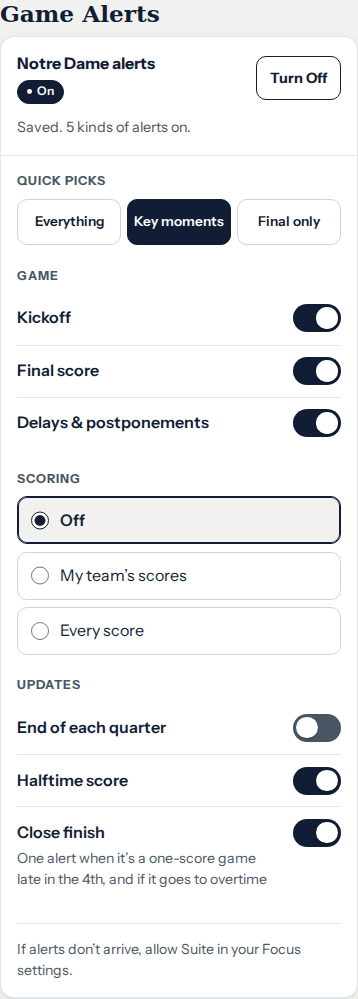
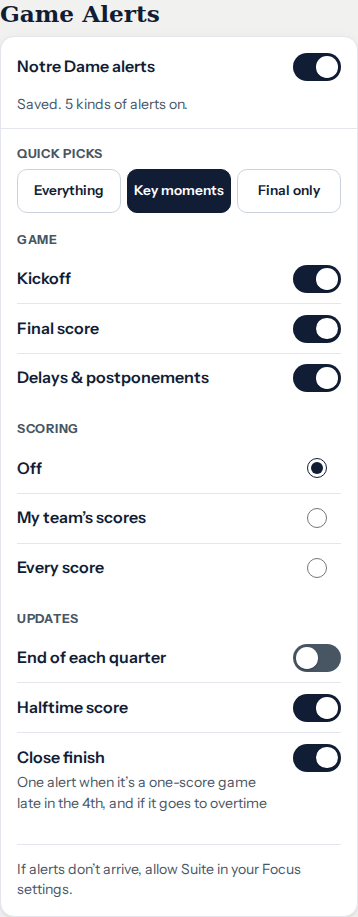
Use a master alert switch and unify Settings control rows

diff --git a/tools/alertscheck.js b/tools/alertscheck.js
@@ -31,7 +31,12 @@ var STUB = "(" + function () {
   }
   try { if (localStorage.getItem("iw-alerts-notre-dame") === "1") sub = mk(); } catch (e) {}   // already on, from before
   window.PushManager = function () {};
-  window.Notification = { permission: "granted", requestPermission: function () { return Promise.resolve("granted"); } };
+  window.alertPermissionCalls = 0;
+  window.Notification = { permission: "granted", requestPermission: function () {
+    window.alertPermissionCalls++;
+    this.permission = window.alertPermissionResult || "granted";
+    return Promise.resolve(this.permission);
+  } };
   var pm = { getSubscription: function () { return Promise.resolve(sub); },
              subscribe: function () { sub = mk(); return Promise.resolve(sub); } };
   var reg = { pushManager: pm, active: {} };
@@ -48,7 +53,7 @@ var STUB = "(" + function () {
   var browser = await chromium.launch({ headless: true, executablePath: process.env.PW_CHROMIUM || undefined });
   async function open(width, before) {
     var ctx = await browser.newContext({ viewport: { width: width || 390, height: 844 }, serviceWorkers: "block" });
-    var page = await ctx.newPage(), posts = [], slow = { ms: 0 };
+    var page = await ctx.newPage(), posts = [], slow = { ms: 0, status: 200 };
     if (before) await page.addInitScript(before);
     await page.addInitScript(STUB);
     await page.route("**/*", function (route) {
@@ -60,10 +65,10 @@ var STUB = "(" + function () {
         var wait = Array.isArray(slow.ms) ? slow.ms.shift() || 0 : slow.ms;
         if (wait && !/unsubscribe/.test(u)) return new Promise(function (r) { setTimeout(r, wait); }).then(function () {
           posts.push({ path: "subscribe", options: body.options || null, at: Date.now() });
-          return route.fulfill({ status: 200, contentType: "application/json", headers: { "access-control-allow-origin": "*" }, body: JSON.stringify({ ok: true, confirmation: "updated" }) });
+          return route.fulfill({ status: slow.status, contentType: "application/json", headers: { "access-control-allow-origin": "*" }, body: JSON.stringify({ ok: true, confirmation: "updated" }) });
         });
         posts.push({ path: /unsubscribe/.test(u) ? "unsubscribe" : "subscribe", options: body.options || null, at: Date.now() });
-        return route.fulfill({ status: 200, contentType: "application/json", headers: { "access-control-allow-origin": "*" },
+        return route.fulfill({ status: slow.status, contentType: "application/json", headers: { "access-control-allow-origin": "*" },
                                body: JSON.stringify(/unsubscribe/.test(u) ? { ok: true } : { ok: true, confirmation: posts.filter(function (p) { return p.path === "subscribe"; }).length === 1 ? "sent" : "updated" }) });
       }
       if (u.startsWith(base)) return route.continue();
@@ -78,7 +83,7 @@ var STUB = "(" + function () {
   function state(page) {
     return page.evaluate(function () {
       var s = document.querySelector("#screenSettings");
-      return { on: (s.querySelector('[data-st="alerts"]') || {}).textContent,
+      return { on: (s.querySelector('[data-alerts]') || {}).checked ? "On" : "Off",
                note: (s.querySelector('[data-st="alerts-note"]') || {}).textContent,
                pressed: [].map.call(s.querySelectorAll('[data-alert-pick][aria-pressed="true"]'), function (b) { return b.getAttribute("data-alert-pick"); }),
                switches: [].map.call(s.querySelectorAll("[data-alert-opt]"), function (i) { return (i.checked ? "+" : "-") + i.getAttribute("data-alert-opt"); }),
@@ -175,6 +180,43 @@ var STUB = "(" + function () {
   ok(!wide, "nothing runs off the screen");
   await shot(n.page, "alerts-320");
   await n.ctx.close();
+
+  console.log("6. Native master switch: keyboard, pending taps and failed changes");
+  var master = await open(320);
+  eq(await master.page.evaluate(function () { return window.alertPermissionCalls; }), 0,
+     "opening Settings never asks for permission");
+  master.slow.ms = 900;
+  var control = master.page.getByRole("switch", { name: "Notre Dame alerts", exact: true });
+  await control.focus(); await control.press("Space");
+  await master.page.waitForTimeout(100);
+  ok(await control.getAttribute("aria-disabled") === "true" && !(await control.isChecked()),
+     "enabling keeps the confirmed off state and explains that it is pending");
+  // A real tap can reach an aria-disabled native input; bypass Playwright's
+  // enabled-state wait so this exercises the pending-state guard itself.
+  await control.click({ force: true });
+  ok(!(await control.isChecked()), "a repeated pending tap restores the confirmed state");
+  await master.page.waitForTimeout(1200);
+  ok(await control.isChecked() && master.posts.length === 1 &&
+     await master.page.evaluate(function () { return window.alertPermissionCalls === 1 && document.activeElement.name === "alert-master"; }),
+     "Space enables once; the switch reports on and keeps keyboard focus");
+  master.slow.status = 503;
+  await control.press("Space"); await master.page.waitForTimeout(400);
+  ok(await control.isChecked() && /Couldn’t turn off/.test((await state(master.page)).note),
+     "a failed unsubscribe stays visibly on and says why");
+  master.slow.status = 200;
+  await control.press("Space"); await master.page.waitForTimeout(400);
+  ok(!(await control.isChecked()) && (await state(master.page)).note === "Game alerts are off.",
+     "retrying by keyboard switches off successfully");
+  await master.ctx.close();
+
+  var denied = await open();
+  await denied.page.evaluate(function () { window.alertPermissionResult = "denied"; });
+  await denied.page.getByRole("switch", { name: "Notre Dame alerts", exact: true }).press("Space");
+  await denied.page.waitForTimeout(400);
+  ok(denied.posts.length === 0 && await denied.page.locator('[data-alerts]').count() === 0 &&
+     /Notifications are off for Suite/.test(await denied.page.locator('#screenSettings').innerText()),
+     "denied permission never subscribes or shows an enabled master switch");
+  await denied.ctx.close();
 
   await browser.close(); server.close();
   console.log("\n" + (failures ? failures + " check(s) FAILED" : "the fan's choice of alerts, sent as chosen"));

diff --git a/app.css b/app.css
@@ -979,40 +979,32 @@ button.mo-row{width:100%;margin:0;border:0;background:none;font:inherit;text-ali
 .st-note{flex:1 1 12rem;font-size:.92rem;color:var(--s-muted)}
 /* Game alerts, round 2 (notifications brief §2b): quick picks, then the
    switches they set. Each row is a label the whole width, 44px at least. */
-/* A compact team/status header; turning alerts on remains an explicit tap. */
-.al-overview{padding:1rem}
-.al-summary{display:flex;flex-wrap:wrap;align-items:center;justify-content:space-between;gap:.75rem}
-.al-heading{display:flex;flex:1 1 8rem;flex-direction:column;align-items:flex-start;gap:.4rem;min-width:0}
-.al-team{font-size:1rem;font-weight:700;line-height:1.3;color:var(--s-ink)}
-.al-status{display:inline-flex;align-items:center;gap:.35rem;padding:.15rem .55rem;border:1px solid var(--s-line-strong);border-radius:var(--s-radius-pill);font-size:.75rem;font-weight:600;line-height:1.4;color:var(--s-ink-2)}
-.al-status.is-on{background:var(--t-surface);border-color:var(--t-surface);color:var(--s-on-dark)}
-.al-status.is-on::before{content:"";width:.3rem;height:.3rem;border-radius:50%;background:currentColor}
-.al-toggle{flex:none;min-height:2.75rem;font-size:.9rem;padding:.55rem .8rem}
-.al-note{margin:.85rem 0 0;font-size:.9rem;line-height:1.5;color:var(--s-muted)}
+/* Alert rows share one type, spacing and control alignment. The master
+   uses the same switch as each option; only quick picks have button chrome. */
+.al-overview{padding:.35rem 1rem .85rem}
+.al-note{margin:.2rem 0 0}
+.al-note,.al-sub,.al-help{font-size:.88rem;line-height:1.45;color:var(--s-muted)}
 .al-opts{padding:1rem;border-top:1px solid var(--s-line)}
-.al-picks-title{margin:0 0 .55rem;font-size:.78rem;font-weight:700;letter-spacing:.08em;text-transform:uppercase;color:var(--s-muted)}
-.al-picks{display:grid;grid-template-columns:repeat(auto-fit,minmax(min(100%,4.7rem),1fr));gap:.35rem}
-.al-pick{min-height:2.9rem;min-width:0;padding:.45rem .35rem;border:1px solid var(--s-line-strong);border-radius:var(--s-radius-ctl);background:var(--s-surface);color:var(--s-ink);font-family:inherit;font-size:.85rem;font-weight:600;line-height:1.25;cursor:pointer}
+.al-set{margin:1.1rem 0 0;padding:0;border:0;min-width:0}
+.al-set:first-child{margin-top:0}
+.al-legend{padding:0;margin-bottom:.35rem;font-family:var(--t-font-ui);font-weight:700;font-size:.78rem;letter-spacing:.06em;text-transform:uppercase;color:var(--s-muted)}
+.al-picks{display:grid;grid-template-columns:repeat(auto-fit,minmax(min(100%,4.7rem),1fr));gap:.4rem}
+.al-pick{min-height:2.75rem;min-width:0;padding:.5rem .25rem;border:1px solid var(--s-line-strong);border-radius:var(--s-radius-ctl);background:var(--s-surface);color:var(--s-ink);font-family:inherit;font-size:.85rem;font-weight:600;line-height:1.3;cursor:pointer}
 .al-pick[aria-pressed="true"]{border-color:var(--t-surface);background:var(--t-surface);color:var(--s-on-dark)}
 .al-pick:focus-visible{outline:3px solid var(--t-surface);outline-offset:2px}
-.al-set{margin:1.35rem 0 0;padding:0;border:0;min-width:0}
-.al-legend{padding:0;margin-bottom:.5rem;font-family:var(--t-font-ui);font-weight:700;font-size:.78rem;letter-spacing:.08em;text-transform:uppercase;color:var(--s-muted)}
-.al-row{display:flex;flex-wrap:wrap;align-items:flex-start;justify-content:space-between;gap:.9rem;min-height:3.25rem;padding:.7rem 0;cursor:pointer}
+.al-row{display:flex;flex-wrap:wrap;align-items:flex-start;justify-content:space-between;gap:.75rem;min-height:2.75rem;padding:.65rem 0;cursor:pointer}
 .al-row + .al-row{border-top:1px solid var(--s-line)}
-.al-text{display:flex;flex:1 1 9rem;flex-direction:column;gap:.3rem;min-width:0;padding:.2rem 0;overflow-wrap:anywhere}
+.al-text{display:flex;flex:1 1 9rem;flex-direction:column;gap:.25rem;min-width:0;padding:.2rem 0;overflow-wrap:anywhere}
 .al-name{font-weight:600;color:var(--s-ink);line-height:1.35}
-.al-sub{font-size:.88rem;line-height:1.45;color:var(--s-muted)}
-.al-switch{flex:none;appearance:none;-webkit-appearance:none;position:relative;width:3rem;height:1.75rem;margin:0;border-radius:999px;background:var(--s-ink-2);cursor:pointer;transition:background-color .15s}
+.al-switch{flex:none;appearance:none;-webkit-appearance:none;position:relative;width:3rem;height:1.75rem;margin:0;border-radius:var(--s-radius-pill);background:var(--s-ink-2);cursor:pointer;transition:background-color .15s}
 .al-switch::after{content:"";position:absolute;top:.2rem;left:.2rem;width:1.35rem;height:1.35rem;border-radius:50%;background:#fff;box-shadow:0 1px 2px rgba(0,0,0,.3);transition:transform .15s}
 .al-switch:checked{background:var(--t-surface)}
 .al-switch:checked::after{transform:translateX(1.25rem)}
+.al-switch[aria-disabled="true"]{cursor:progress}
 .al-switch:focus-visible{outline:3px solid var(--t-surface);outline-offset:2px}
-.al-seg{display:grid;gap:.45rem}
-.al-choice{display:flex;align-items:center;gap:.65rem;min-height:3rem;padding:.65rem .8rem;border:1px solid var(--s-line-strong);border-radius:var(--s-radius-ctl);cursor:pointer;color:var(--s-ink);line-height:1.35}
-.al-choice:has(input:checked){border-color:var(--t-surface);box-shadow:inset 0 0 0 1px var(--t-surface);background:var(--s-page);font-weight:600}
-.al-choice input{flex:none;width:1.15rem;height:1.15rem;margin:0;accent-color:var(--t-surface)}
+.al-choice input{flex:none;width:1.25rem;height:1.25rem;margin:.25rem .875rem;accent-color:var(--t-surface)}
 .al-choice input:focus-visible{outline:3px solid var(--t-surface);outline-offset:2px}
-.al-help{margin:1.25rem 0 0;padding-top:.9rem;border-top:1px solid var(--s-line);font-size:.88rem;line-height:1.5;color:var(--s-muted)}
+.al-help{margin:1.1rem 0 0;padding-top:.85rem;border-top:1px solid var(--s-line)}
 @media (prefers-reduced-motion: reduce){.al-switch,.al-switch::after{transition:none}}
 /* Feedback and About. */
 .fb-card,.ab-card{padding:1.1rem 1.1rem 1.2rem}

diff --git a/suite/more.js b/suite/more.js
@@ -200,8 +200,8 @@ Suite.more = (function () {
   // 2026-10-09): on or off for this team, and once on, the fan's choice of
   // alerts - quick picks that set the switches and step aside, one choice
   // for scoring, a switch for everything else. It says plainly when this
-  // device cannot get them, and why. The Turn On button is the only thing
-  // that ever asks the browser for permission.
+  // device cannot get them, and why. Enabling the master switch is the only
+  // action that asks the browser for permission.
   var PICKS = [["everything", "Everything"], ["key", "Key moments"], ["final", "Final only"]];
   var SWITCHES = {
     game: [["kickoff", "Kickoff"], ["final", "Final score"], ["delays", "Delays & postponements"]],
@@ -217,14 +217,14 @@ Suite.more = (function () {
   }
   function alertOptions(a) {
     var o = a.opts;
-    return '<div class="al-opts"><p class="al-picks-title">Quick picks</p>' +
-      '<div class="al-picks" role="group" aria-label="Quick picks">' + PICKS.map(function (p) {
+    return '<div class="al-opts"><fieldset class="al-set"><legend class="al-legend">Quick picks</legend>' +
+      '<div class="al-picks">' + PICKS.map(function (p) {
         return '<button type="button" class="al-pick" data-alert-pick="' + p[0] + '" aria-pressed="' + (a.pick === p[0]) + '">' + esc(p[1]) + "</button>";
-      }).join("") + "</div>" +
+      }).join("") + "</div></fieldset>" +
       '<fieldset class="al-set"><legend class="al-legend">Game</legend>' + SWITCHES.game.map(function (sw) { return alertSwitch(o, sw); }).join("") + "</fieldset>" +
       '<fieldset class="al-set"><legend class="al-legend">Scoring</legend><div class="al-seg">' + SCORING.map(function (c) {
-        return '<label class="al-choice"><input type="radio" name="alertScoring" value="' + c[0] + '"' + (o.scoring === c[0] ? " checked" : "") +
-               "><span>" + esc(c[1]) + "</span></label>";
+        return '<label class="al-row al-choice"><span class="al-text"><span class="al-name">' + esc(c[1]) + '</span></span>' +
+               '<input type="radio" name="alertScoring" value="' + c[0] + '"' + (o.scoring === c[0] ? " checked" : "") + "></label>";
       }).join("") + "</div></fieldset>" +
       '<fieldset class="al-set"><legend class="al-legend">Updates</legend>' + SWITCHES.updates.map(function (sw) { return alertSwitch(o, sw); }).join("") + "</fieldset>" +
       '<p class="al-help">If alerts don\u2019t arrive, allow Suite in your Focus settings.</p></div>';
@@ -242,9 +242,12 @@ Suite.more = (function () {
     } else {
       var note = a.note || (a.on ? "Choose which " + name + " alerts this device gets."
                                  : "Notifications for " + name + " games: kickoff and the final to start, and scores, quarters and close finishes if you want them.");
-      body = '<div class="al-overview"><div class="al-summary"><div class="al-heading"><span class="al-team">' + esc(name) + ' alerts</span><span class="al-status' + (a.on ? ' is-on' : '') + '" data-st="alerts">' + (a.on ? "On" : "Off") + "</span></div>" +
-        '<button type="button" class="btn btn-secondary al-toggle" data-alerts="' + (a.on ? "off" : "on") + '"' + (a.busy ? ' aria-disabled="true"' : "") + ">" +
-        (a.busy ? (a.on ? "Turning Off\u2026" : "Turning On\u2026") : (a.on ? "Turn Off" : "Turn On")) + '</button></div><p class="al-note" data-st="alerts-note">' + esc(note) + "</p></div>" +
+      if (a.busy) note = a.on ? "Turning alerts off…" : "Turning alerts on…";
+      body = '<div class="al-overview"><label class="al-row"><span class="al-text"><span class="al-name" id="al-master-name">' + esc(name) + ' alerts</span></span>' +
+        '<input type="checkbox" role="switch" class="al-switch" name="alert-master" data-alerts="' + (a.on ? "off" : "on") +
+        '" aria-labelledby="al-master-name" aria-describedby="al-note"' + (a.on ? " checked" : "") +
+        (a.busy ? ' aria-disabled="true" aria-busy="true"' : "") + '></label>' +
+        '<p class="al-note" id="al-note" data-st="alerts-note">' + esc(note) + "</p></div>" +
         (a.on && a.opts ? alertOptions(a) : "");
     }
     return group("alerts", "Game Alerts", body);

diff --git a/tools/suitecheck.js b/tools/suitecheck.js
@@ -124,18 +124,22 @@ function alertsHtml(alerts) {
   return { all: h.innerHTML, sec: sec ? sec[0] : "" };
 }
 var aOff = alertsHtml({ support: "ok", on: false, busy: false, denied: false, note: null });
-ok(/<h2 class="sec-title" id="st-alerts">Game Alerts<\/h2>/.test(aOff.sec) && /data-st="alerts">Off</.test(aOff.sec) &&
-   (aOff.sec.match(/<button type="button"[^>]* data-alerts="on">Turn On<\/button>/g) || []).length === 1,
-   "off: Game Alerts says Off, with one Turn On button");
+var masterOff = /<input[^>]*name="alert-master"[^>]*>/.exec(aOff.sec);
+ok(/<h2 class="sec-title" id="st-alerts">Game Alerts<\/h2>/.test(aOff.sec) && masterOff &&
+   /type="checkbox" role="switch"/.test(masterOff[0]) && !/ checked/.test(masterOff[0]) &&
+   /aria-labelledby="al-master-name" aria-describedby="al-note"/.test(masterOff[0]) &&
+   /id="al-master-name">Ohio State alerts</.test(aOff.sec),
+   "off: one unchecked native master switch, named for the team and described by its note");
 ok(/Notifications for Ohio State games: kickoff and the final to start/.test(aOff.sec) && !/al-opts/.test(aOff.sec),
    "it says what the alerts are, for this team; the choices wait until they are on");
 ok(aOff.all.indexOf('id="st-appearance"') < aOff.all.indexOf('id="st-alerts"') && aOff.all.indexOf('id="st-alerts"') < aOff.all.indexOf('id="st-data"'),
    "between Appearance and Data");
 var aOn = alertsHtml({ support: "ok", on: true, busy: false, denied: false, note: "Game alerts are on. A test alert is on its way." });
-ok(/data-st="alerts">On</.test(aOn.sec) && /data-alerts="off">Turn Off</.test(aOn.sec) && /A test alert is on its way\./.test(aOn.sec),
-   "on: On, Turn Off, and what the last tap did");
-ok(/aria-disabled="true">Turning On…</.test(alertsHtml({ support: "ok", on: false, busy: true, denied: false }).sec),
-   "while it works: Turning On…, still focusable (aria-disabled)");
+ok(/<input[^>]*name="alert-master"[^>]* checked/.test(aOn.sec) && /A test alert is on its way\./.test(aOn.sec),
+   "on: checked master switch and what the last tap did");
+var aBusy = alertsHtml({ support: "ok", on: false, busy: true, denied: false }).sec;
+ok(/aria-disabled="true" aria-busy="true"/.test(aBusy) && /Turning alerts on…/.test(aBusy) && !/ disabled[ >]/.test(aBusy),
+   "while it works: pending state explained, master stays focusable");
 // Round 2 (notifications brief §2b): once on, the choices - quick picks,
 // scoring as one choice, a switch for everything else, and the Focus hint.
 var OPTS = { kickoff: true, final: true, delays: true, scoring: "mine", quarters: false, halftime: true, close: true };

diff --git a/app.js b/app.js
@@ -1867,7 +1867,7 @@ Suite.nav.pull(function(){ return manualRefresh().then(function(r){ say(r.say); 
 
 /* ---------- Game alerts (W19) ---------- */
 // This team's alerts, pushed by the edge API (worker/src/push.js) to this
-// device. Nothing is asked of the browser until the fan taps Turn On in
+// device. Nothing is asked of the browser until the fan enables the master switch in
 // Settings (notifications brief §3). Whether this device turned them on for
 // this team, and its choice of alerts (round 2, §2b), are kept here; the
 // Worker keeps the subscription and a copy of the choice.
@@ -1975,7 +1975,7 @@ function alertsTurnOn(){
     if(r.status!==200) throw { why:"server" };
     alertsDone(r.body.confirmation==="sent" ? "Game alerts are on. A test alert is on its way."
              : r.body.confirmation==="updated" ? "Game alerts are on."
-             : "Game alerts are on, but the test alert didn’t go through. Try Turn Off, then Turn On.", true);
+             : "Game alerts are on, but the test alert didn’t go through. Try switching alerts off, then on.", true);
   }).catch(function(e){
     alertsDone(e && e.why==="denied" ? "Notifications weren’t allowed, so game alerts are off."
                                      : "Couldn’t turn on game alerts. Check your connection and try again.", false);
@@ -1998,10 +1998,13 @@ function alertsTurnOff(why){
     alertsDone("Couldn’t turn off game alerts. Check your connection and try again.", null);
   });
 }
-document.addEventListener("click", function(e){
-  var b=e.target.closest && e.target.closest("[data-alerts]");
-  if(!b || ALERTS.busy || alertSupport()!=="ok") return;
-  if(b.getAttribute("data-alerts")==="on") alertsTurnOn(); else alertsTurnOff();
+document.addEventListener("change", function(e){
+  var b=e.target;
+  if(!b || !b.matches || !b.matches("#screenSettings input[data-alerts]")) return;
+  // Keep the confirmed state while a request is pending. aria-disabled
+  // preserves focus, so a repeated tap must also restore the native switch.
+  if(ALERTS.busy || alertSupport()!=="ok"){ b.checked=alertsModel().on; return; }
+  if(b.checked) alertsTurnOn(); else alertsTurnOff();
 });
 function alertTeam(){ return { id:String(TEAM_CONFIG.sources.espn.teamId), name:TEAM.name }; }
 // A change of choice: kept here at once, sent to the Worker a moment later

diff --git a/sw.js b/sw.js
@@ -28,7 +28,7 @@
    reloaded page draws from cache with no network wait. A first install
    reloads nothing: that page is already this version. */
 
-var VERSION = "suite-2026-10-13alerts1";
+var VERSION = "suite-2026-10-13alerts2";
 var SHELL   = VERSION + "-shell";
 var DATA    = VERSION + "-data";
 

diff --git a/docs/reviews/alerts-settings-2026-10-13.md b/docs/reviews/alerts-settings-2026-10-13.md
@@ -1,60 +1,65 @@
-# Game Alerts Settings presentation review — October 13
+# Game Alerts Settings — revised October 13
 
-Resumes the unpublished October 12 UI refinement on main `011eab3`.
-Review candidate: PR #137 (`codex/alerts-settings-oct13`); not merged or
-production-verified. Environment work remains paused in #135/#136 and the
-Claude handoff #133.
+Review candidate: draft PR #137 (`codex/alerts-settings-oct13`). David asked
+for a master toggle and more consistent layout and UI properties after
+reviewing the first pass. This revision is not merged or deployed.
+Environment setup remains paused in #135/#136 and Claude handoff #133.
 
-## What changed
+## Revision
 
-The team, On/Off status and explicit action now share a compact overview.
-Quick picks have a visible heading and equal-width controls. Scoring keeps
-one native radio choice with full-width rows instead of wrapping chips.
-Group spacing and the Focus hint are clearer, and off switches have a visible
-track. Long alert labels can reflow at 200% text sizing.
+- The master uses the same native checkbox switch, track, thumb, colors and
+  focus ring as the individual alert options. Its team label and helper text
+  identify what it controls. The separate status pill and Turn On/Off button
+  are removed.
+- Master, option and scoring rows share label type, row padding, separators,
+  and a right-aligned control column. Scoring remains one native radio choice;
+  its three separate bordered boxes are removed.
+- Quick picks remain shortcut buttons, with a single shared size/radius,
+  selected fill and group label. All four groups use the same fieldset/legend
+  treatment. Helper text uses one size and line height; group gaps are tighter.
 
-Defaults, quick-pick membership, alert copy, permission requests, save/turn-off
-sequencing and subscription endpoints are unchanged. Kickoff-time alerts and
-both-teams deduplication remain Claude's service work. The service-worker
-version is `suite-2026-10-13alerts1` so installed clients receive the new shell.
-The existing Suite unit assertion now locates the sole semantic Turn On
-button without demanding an exact CSS-class string.
+The master requests permission only on explicit activation, including Space
+on the keyboard. It keeps the confirmed subscription state while work is
+pending, restores that state after repeated pending taps, and reports a failed
+change without falsely showing a successful toggle. Existing defaults,
+quick-pick membership, save/unsubscribe sequencing and backend routes remain.
+The recovery hint now refers to switching alerts off/on. New alert types,
+service deduplication and notification-delivery changes remain Claude's work.
 
-## Review captures
+## Actual browser captures
 
-These are the actual production renderer and CSS in a local browser with
-stubbed permission/subscription responses. No notification was sent to a fan.
-The before and after Notre Dame captures show the same Key moments selection.
-The team mark's normal fallback is used because external images are blocked;
-shipping local typefaces loaded, including Nunito Sans for Ohio State Team Style.
+Local production renderer/CSS with stubbed push responses: no real fan push.
+Shipping fonts loaded, including Nunito Sans for Ohio State Team Style;
+external team marks use the existing fallback. Both Notre Dame captures use
+Key moments, so the comparison isolates presentation.
 
-| Before — Notre Dame, Suite Style, 390px | After — same state |
+| Previous review, 390px | Revised controls, 390px |
 |---|---|
-| ![Before](alerts-2026-10-13/before.png) | ![After](alerts-2026-10-13/notre-dame-suite.png) |
+| ![Previous review](alerts-2026-10-13/previous-review.png) | ![Revised](alerts-2026-10-13/notre-dame-suite.png) |
 
 ![Ohio State Team Style at 320px](alerts-2026-10-13/ohio-state-team-320.png)
 
 ## Verification
 
-- `node tools/suitecheck.js`: renderer contracts pass, including supported,
-  off, on, busy, denied and install-first controls.
-- `node tools/alertscheck.js`: defaults, quick picks, custom choices, focus,
-  legacy preferences and in-flight-save/turn-off sequencing pass with a stubbed API.
-- `node tools/moreflowcheck.js`: Settings refresh/recovery and connection
-  behavior pass with recorded provider fixtures.
-- Rendered review: ND and OSU × Team and Suite styles × 320/390/1280px
-  (12 combinations). No page overflow; option rows, scoring labels, quick
-  picks and the explicit toggle have at least 44px height. At 320px,
-  200% text sizing preserves reflow and label content. Off, busy, denied,
-  install, unsupported and error states also fit at 320px.
-- The existing pixel auditor passed its self-test, then checked 48 text
-  elements and 14 keyboard-focus stops per team/style at 320px: no failures
-  or unverified focus rings. One existing text region per page was unassessed;
-  this is not a claim that every pixel was machine-verified.
-- `python3 tools/csscheck.py app.css`: 857 rules, zero dead or shadowed rules.
-  JS syntax, whitespace and committed `versioncheck origin/main` pass.
-- Machine-readable local review: [verification.json](alerts-2026-10-13/verification.json).
+- Existing Suite renderer checks pass for on/off/busy/unsupported/install and
+  denied states. The master has an explicit accessible name/description.
+- The alert browser suite passes its existing defaults, quick picks, custom
+  choices, legacy settings and in-flight-save/unsubscribe cases. New checks
+  cover keyboard activation, focus, no permission request on initial render,
+  repeated pending taps, failed unsubscribe/retry and denied permission.
+- Focus restoration, controller, boot and service-worker checks pass. The
+  service-worker version is `suite-2026-10-13alerts2`.
+- ND/OSU × Team/Suite styles × 320/390/1280px: 12 rendered combinations fit.
+  Row and quick-pick hit areas are at least 44px. At 320px, 200% text sizing
+  reflows without page overflow or clipped labels. Off, pending, denied,
+  install-first, unsupported and error states are included in the captures.
+- The existing pixel auditor passed its self-test, then checked 46 text
+  elements and 14 focus stops per team/style at 320px, with no failures or
+  unverified focus rings. One existing text region per page was unassessed.
+- CSS: 848 rules, zero dead or shadowed rules. JS syntax and whitespace pass;
+  the committed shell version advances from both main and the prior UI revision.
+- [Machine-readable review](alerts-2026-10-13/verification.json).
 
-Full GitHub CI is running on PR #137. David's visual approval and physical
-Safari/iPhone/PWA observation remain separate from desktop checks. The PR
-has not been merged or deployed.
+Full CI must pass on the revised PR head. David's visual approval and physical
+Safari/iPhone/PWA observation are separate from these desktop checks. The
+prior revision's results do not constitute approval of this revision.

diff --git a/docs/product/notifications-brief.md b/docs/product/notifications-brief.md
@@ -104,6 +104,13 @@ October 10 game needs. Gates: `tools/workercheck.mjs` replays a real game's
 scoring minute by minute for four kinds of fan; `tools/alertscheck.js`
 drives Settings in a browser.
 
+**October 13 UI refinement (David):** the master On/Off control is a native
+switch matching the individual alert switches. Quick picks remain shortcut
+buttons. Scoring remains a single native radio choice, using the same row,
+type, separators and right-side control alignment as the switch options.
+Only an explicit master-switch activation requests notification permission;
+request progress and failure must preserve the confirmed subscription state.
+
 ### The settings screen (Settings → Game Alerts, for the active team)
 
 ```
